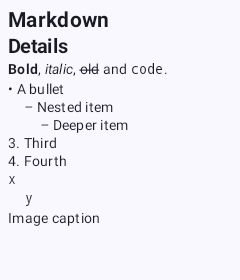
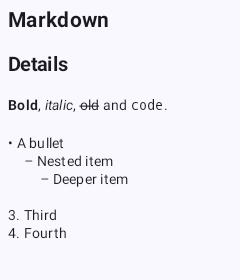
Preserve blank lines in rendered Markdown

diff --git a/app/src/main/java/com/philkes/notallyx/presentation/view/note/MarkdownText.kt b/app/src/main/java/com/philkes/notallyx/presentation/view/note/MarkdownText.kt
@@ -8,23 +8,31 @@ import com.philkes.notallyx.data.model.NoteFormat
 import com.philkes.notallyx.presentation.applySpans
 import com.philkes.notallyx.presentation.dp
 import org.commonmark.ext.gfm.strikethrough.StrikethroughExtension
+import org.commonmark.node.BlockQuote
 import org.commonmark.node.BulletList
 import org.commonmark.node.Code
+import org.commonmark.node.Document
 import org.commonmark.node.FencedCodeBlock
 import org.commonmark.node.Image
 import org.commonmark.node.IndentedCodeBlock
 import org.commonmark.node.ListBlock
 import org.commonmark.node.ListItem
+import org.commonmark.node.Node
 import org.commonmark.node.OrderedList
 import org.commonmark.node.Paragraph
 import org.commonmark.node.ThematicBreak
+import org.commonmark.parser.IncludeSourceSpans
 import org.commonmark.parser.Parser
 import org.commonmark.renderer.html.CoreHtmlNodeRenderer
 import org.commonmark.renderer.html.HtmlNodeRendererContext
 import org.commonmark.renderer.html.HtmlRenderer
 
 private val markdownExtensions = listOf(StrikethroughExtension.create())
-private val markdownParser = Parser.builder().extensions(markdownExtensions).build()
+private val markdownParser =
+    Parser.builder()
+        .extensions(markdownExtensions)
+        .includeSourceSpans(IncludeSourceSpans.BLOCKS)
+        .build()
 private val markdownRenderer =
     HtmlRenderer.builder()
         .extensions(markdownExtensions)
@@ -71,6 +79,30 @@ private class MarkdownHtmlRenderer(context: HtmlNodeRendererContext) :
     private var itemNumber: Int? = null
     private var listDepth = -1
 
+    override fun visit(document: Document) = renderBlocks(document.firstChild)
+
+    override fun visit(quote: BlockQuote) {
+        writer.tag("blockquote")
+        renderBlocks(quote.firstChild)
+        writer.tag("/blockquote")
+    }
+
+    private fun renderBlocks(first: Node?, precedingLine: Int? = null) {
+        var previousLine = precedingLine
+        generateSequence(first) { it.next }
+            .forEach { block ->
+                val spans = block.sourceSpans
+                val firstLine = spans.firstOrNull()?.lineIndex
+                val end = previousLine
+                if (firstLine != null && end != null) {
+                    // HtmlCompat supplies one newline between adjacent blocks in compact mode.
+                    repeat((firstLine - end - 1).coerceAtLeast(0)) { writer.raw("<br />") }
+                }
+                context.render(block)
+                previousLine = spans.lastOrNull()?.lineIndex ?: previousLine
+            }
+    }
+
     override fun visit(code: Code) {
         writer.tag("tt")
         writer.text(code.literal.replace(' ', '\u00a0'))
@@ -106,7 +138,7 @@ private class MarkdownHtmlRenderer(context: HtmlNodeRendererContext) :
         val outerItemNumber = itemNumber
         itemNumber = firstNumber
         listDepth++
-        visitChildren(list)
+        renderBlocks(list.firstChild)
         listDepth--
         itemNumber = outerItemNumber
     }
@@ -127,6 +159,6 @@ private class MarkdownHtmlRenderer(context: HtmlNodeRendererContext) :
         writer.tag("/div")
 
         val remaining = if (first is Paragraph) first.next else first
-        generateSequence(remaining) { it.next }.forEach(context::render)
+        renderBlocks(remaining, (first as? Paragraph)?.sourceSpans?.lastOrNull()?.lineIndex)
     }
 }

diff --git a/app/src/test/kotlin/com/philkes/notallyx/presentation/view/note/MarkdownTextTest.kt b/app/src/test/kotlin/com/philkes/notallyx/presentation/view/note/MarkdownTextTest.kt
@@ -1,0 +1,25 @@
+package com.philkes.notallyx.presentation.view.note
+
+import org.junit.Assert.assertEquals
+import org.junit.Test
+import org.junit.runner.RunWith
+import org.robolectric.RobolectricTestRunner
+import org.robolectric.annotation.Config
+
+@RunWith(RobolectricTestRunner::class)
+@Config(sdk = [35])
+class MarkdownTextTest {
+    @Test
+    fun preservesSingleLineBreaksAndBlankLines() {
+        val source = "# Title\r\nFirst\r\nSecond\r\n\r\n\r\n**Third**"
+
+        assertEquals("Title\nFirst\nSecond\n\n\nThird", renderMarkdown(source).toString())
+    }
+
+    @Test
+    fun preservesBlankLinesBetweenListItemsAndInQuotes() {
+        val source = "- First\n\n- Second\n\n> Third\n>\n> Fourth"
+
+        assertEquals("• First\n\n• Second\n\nThird\n\nFourth", renderMarkdown(source).toString())
+    }
+}

diff --git a/app/src/test/kotlin/com/philkes/notallyx/presentation/widget/WidgetNoteFormattingTest.kt b/app/src/test/kotlin/com/philkes/notallyx/presentation/widget/WidgetNoteFormattingTest.kt
@@ -109,7 +109,7 @@ class WidgetNoteFormattingTest {
 
             val widget = render(activity, note.copy(format = NoteFormat.MARKDOWN))
             val body = widget.findViewById<TextView>(R.id.Note).text as Spanned
-            assertTrue(body.startsWith("Markdown\nDetails\nBold, italic, old and code."))
+            assertTrue(body.startsWith("Markdown\n\nDetails\n\nBold, italic, old and code."))
             assertTrue(body.contains("3. Third\n4. Fourth"))
             assertTrue(body.contains("x\n\u00a0\u00a0y"))
             assertTrue(body.endsWith("Image caption"))

diff --git a/app/src/test/kotlin/com/philkes/notallyx/presentation/activity/main/ScreenshotTests.kt b/app/src/test/kotlin/com/philkes/notallyx/presentation/activity/main/ScreenshotTests.kt
@@ -148,7 +148,7 @@ class ScreenshotTests {
 
     @Test
     fun markdownNoteUsesTheSavedFormatAndRendersUntilEditing() = runTest {
-        val source = "# A heading\n\n**Body**"
+        val source = "# A heading\n**Body**"
         val noteId =
             withContext(Dispatchers.IO) {
                 database.getBaseNoteDao().insert(createBaseNote(title = "Example", body = source))
